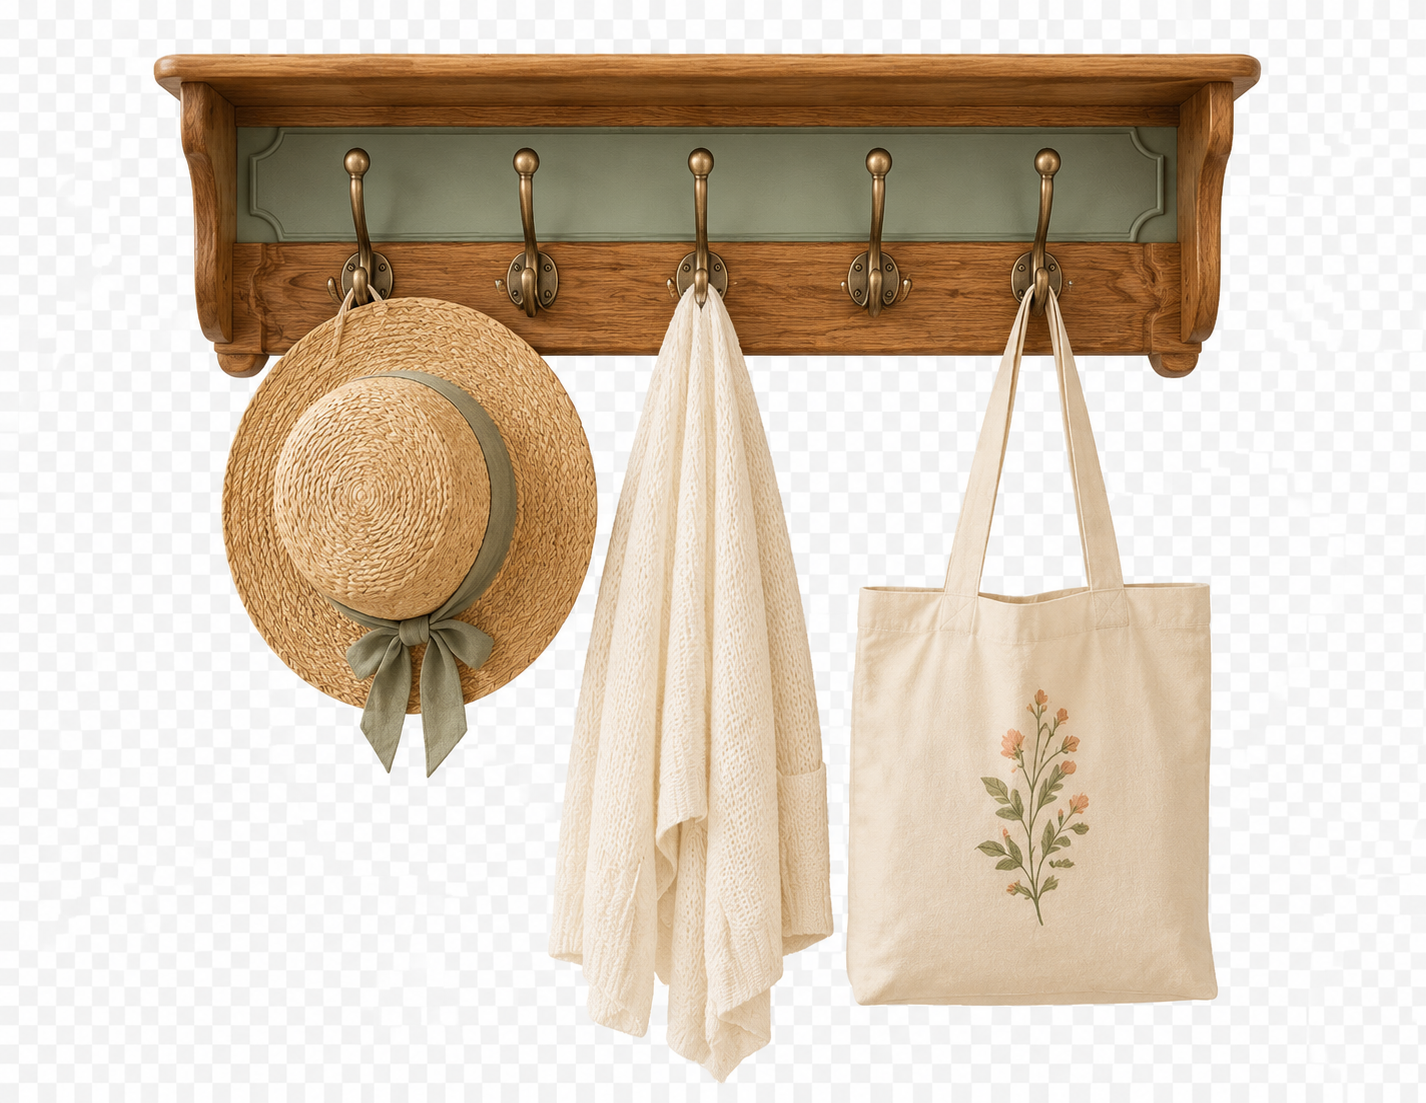
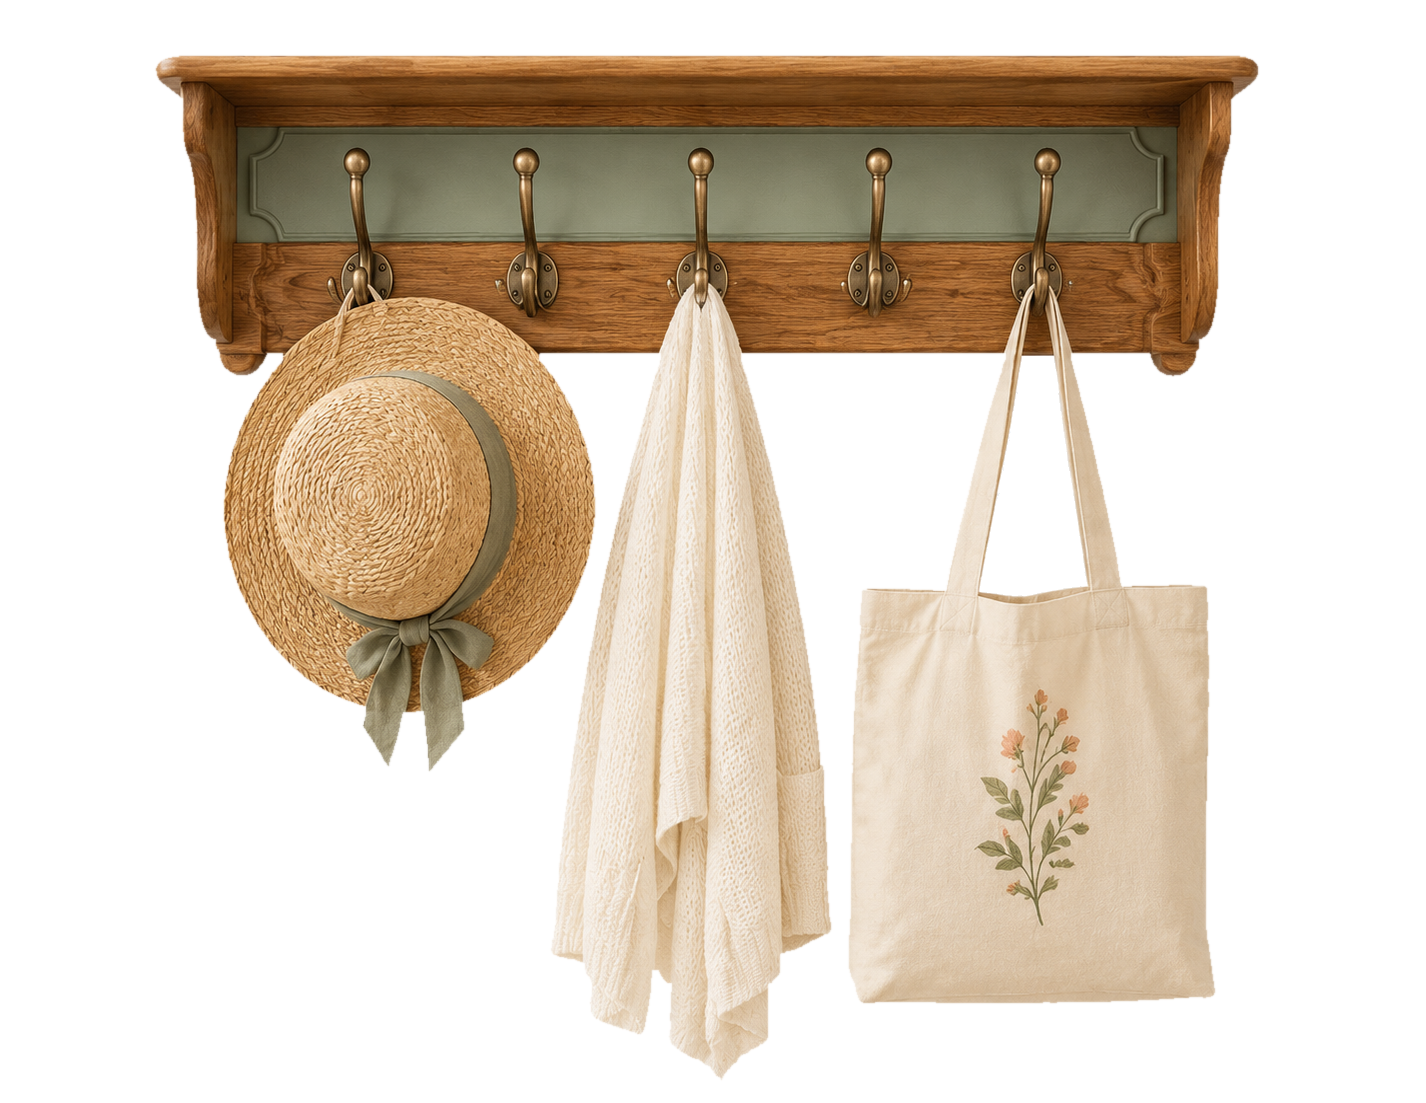
Remove directory thumbnail backgrounds

diff --git a/scripts/rooms-data.js b/scripts/rooms-data.js
@@ -637,7 +637,7 @@ export const ROOMS = [
     title: "Study",
     path: "/rooms/study",
     image: "/assets/rooms/study-cutout.png",
-    directoryImage: "/assets/rooms/home-directory-book.png",
+    directoryImage: "/assets/rooms/home-directory-book.png?v=2",
     alt: "Isometric study with dark timber bookshelves, floral seating, and an easel",
     description: "A category for research-led, editorial, and reflective projects.",
     projects: [
@@ -949,7 +949,7 @@ export const ROOMS = [
     title: "Doorstep",
     path: "/rooms/doorstep",
     image: "/assets/rooms/doorstep-house-final.webp?v=1",
-    directoryImage: "/assets/rooms/home-directory-doorstep.png",
+    directoryImage: "/assets/rooms/home-directory-doorstep.png?v=2",
     alt: "暖色等距视角门廊小屋，包含开放木门、鞋柜、联系图标、小狗和地垫",
     description: "A quiet goodbye at the doorstep.",
     isDoorstep: true,

diff --git a/scripts/app.js b/scripts/app.js
@@ -7,7 +7,7 @@ import {
   SHOW_HOTSPOTS,
   adjacentPages,
   roomFromPath,
-} from "/scripts/rooms-data.js?v=119";
+} from "/scripts/rooms-data.js?v=120";
 
 const PAGE_FADE_TIMING = { exit: 240, enter: 360 };
 const REDUCED_PAGE_FADE_TIMING = { exit: 1, enter: 1 };
